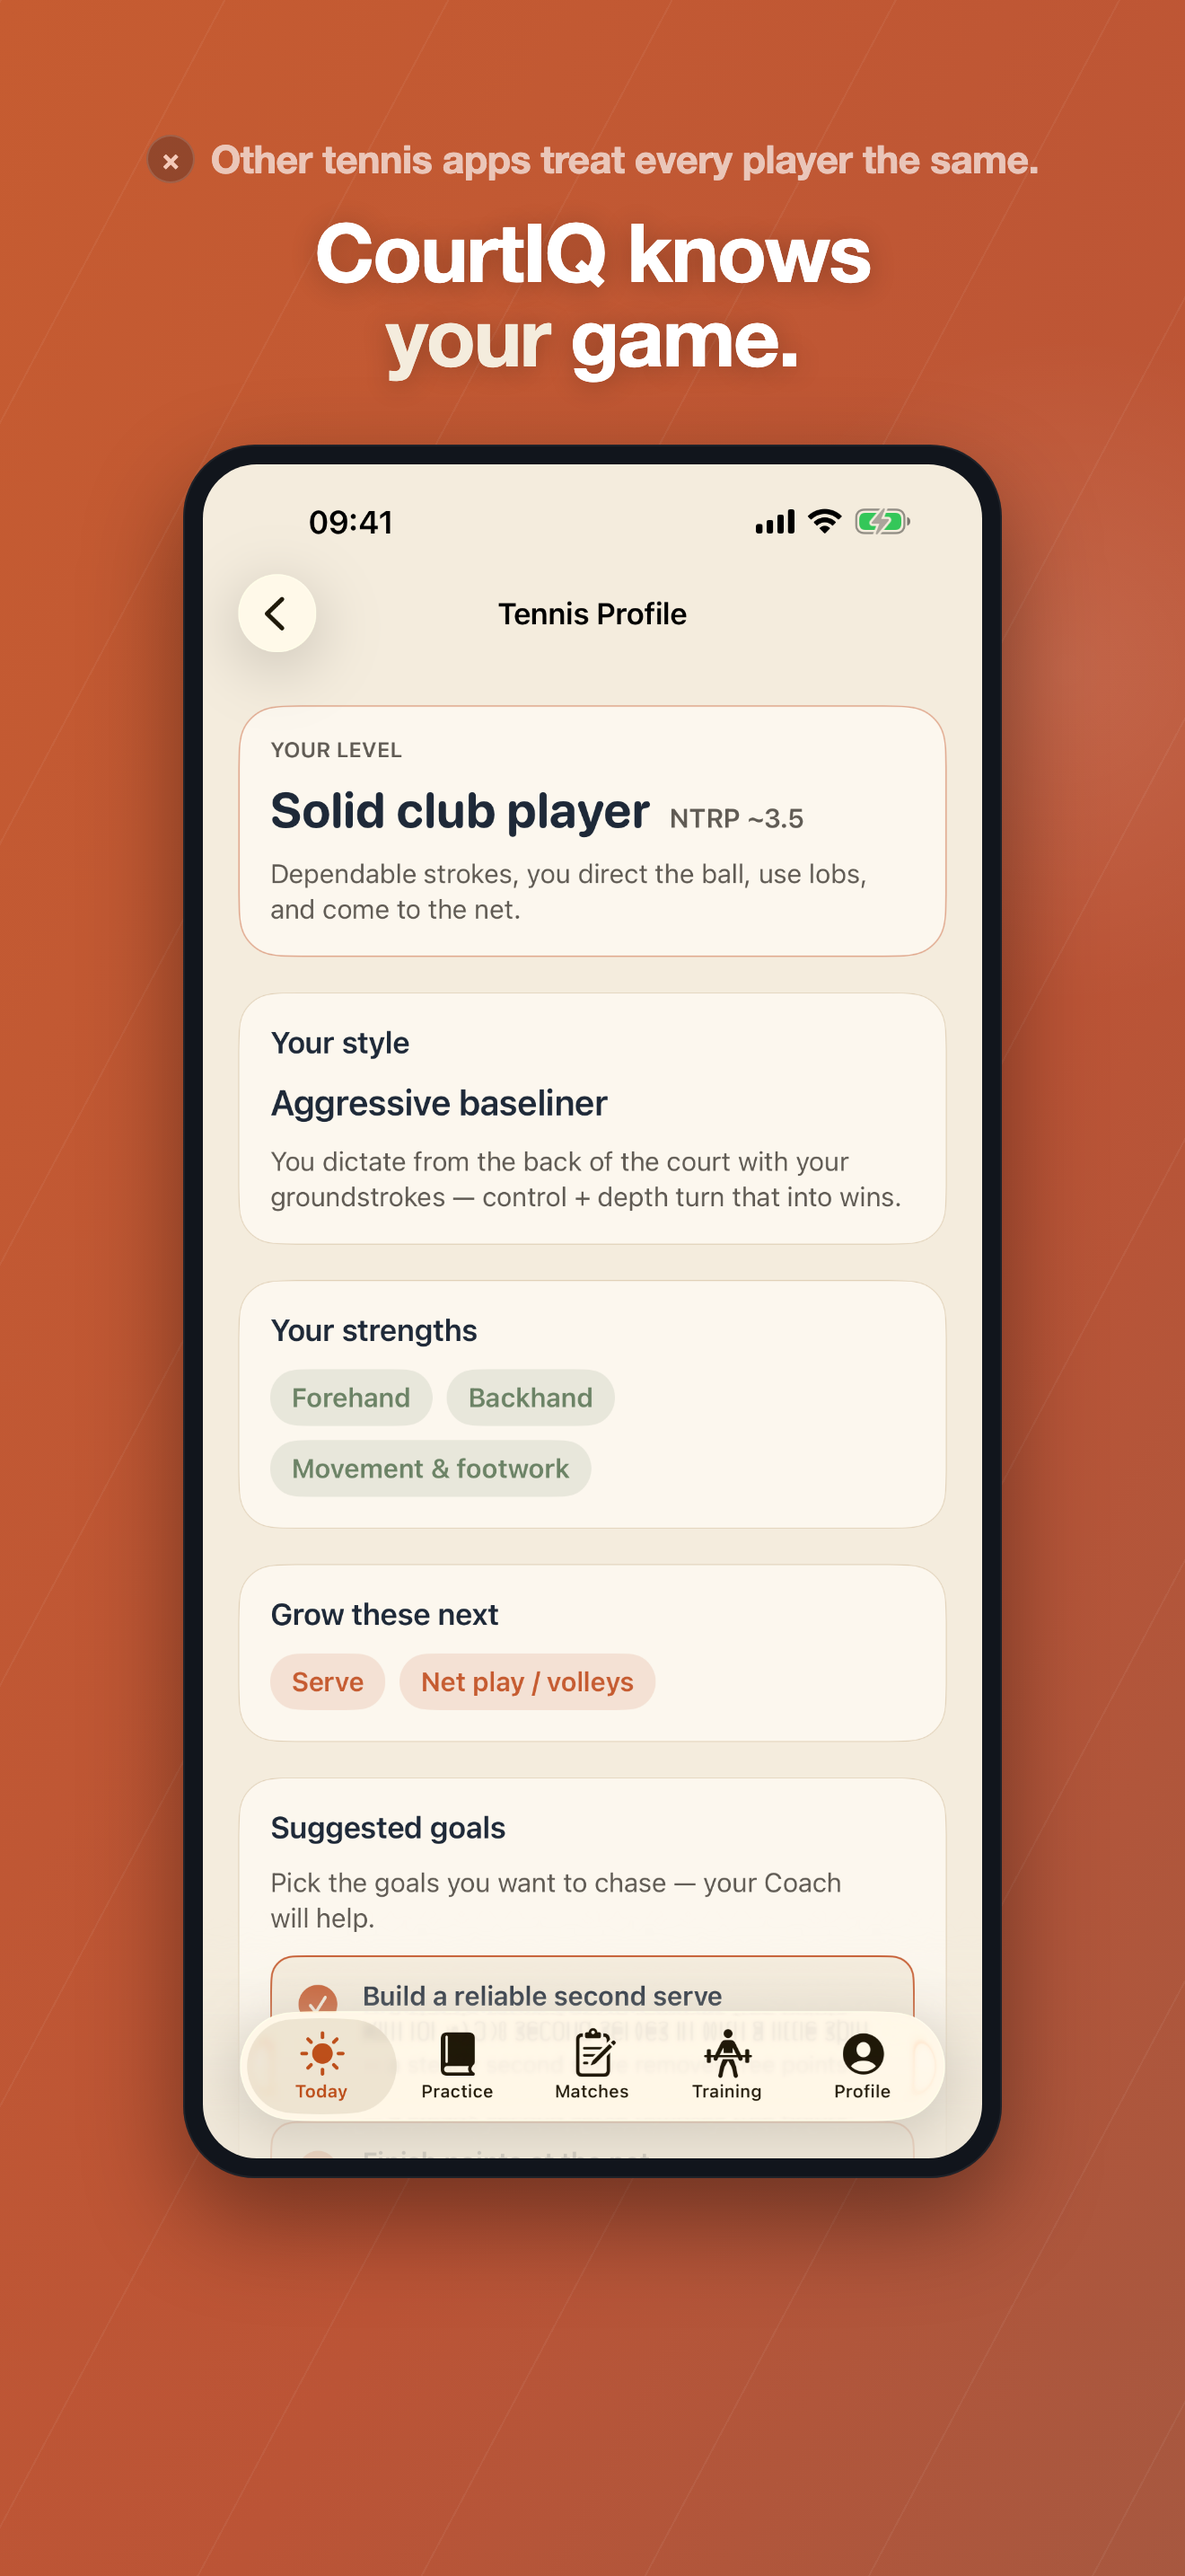
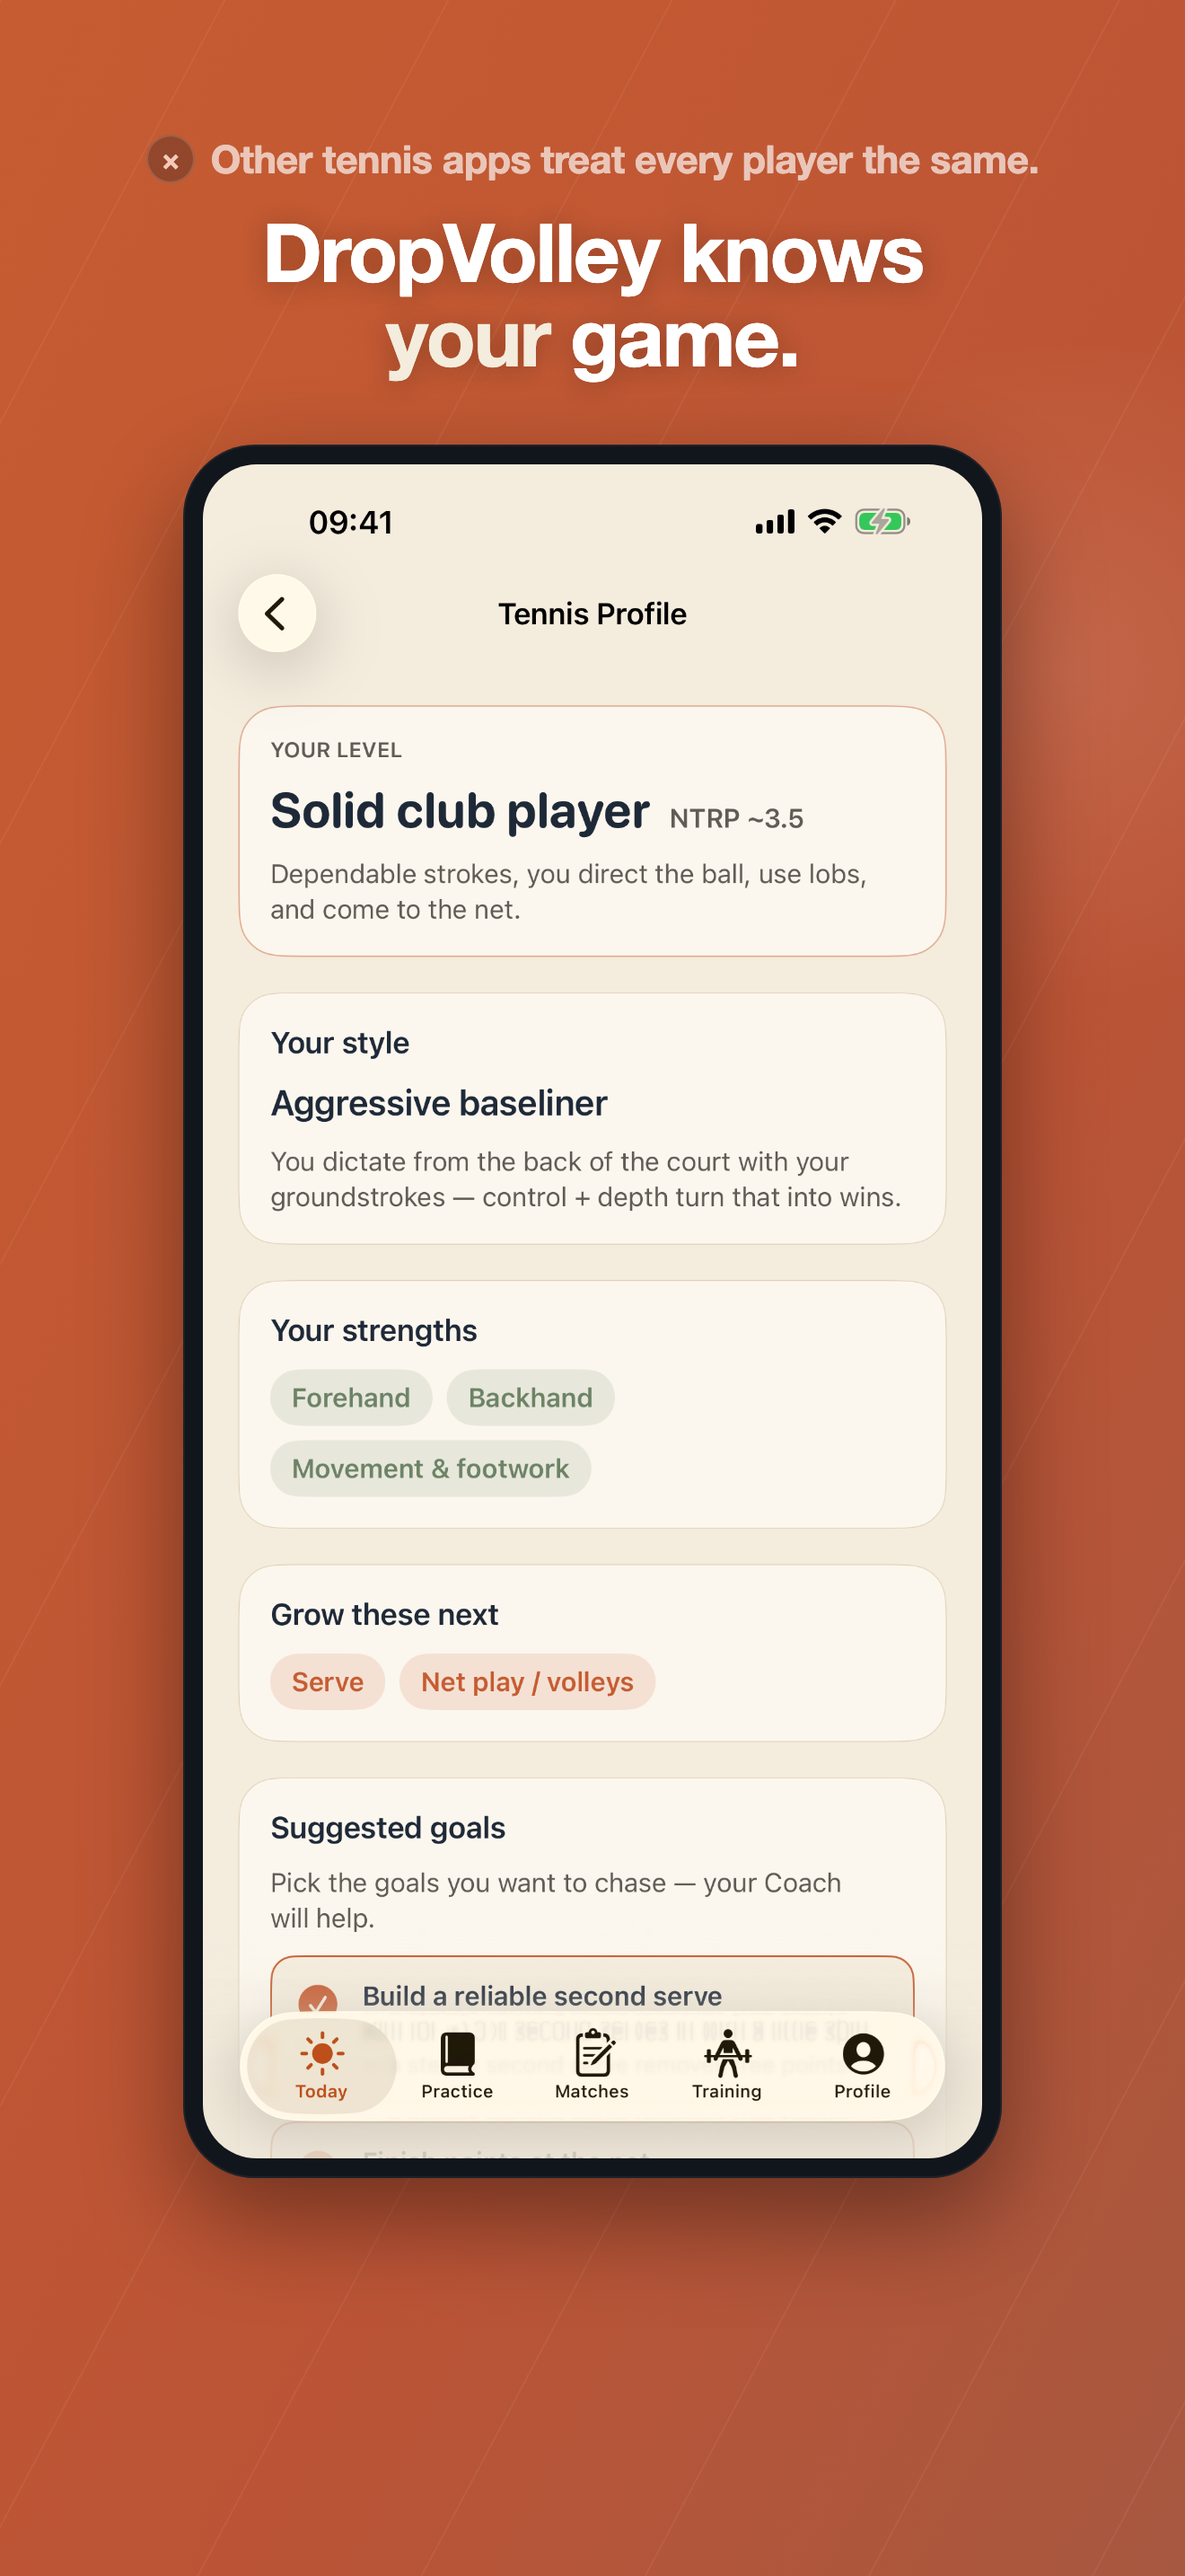
Screenshots: recapture DropVolley + new paywall; fix preview gating
- Preview seed now forces premium in refreshEntitlements (-seedPreviewData)
  so the seeded tour renders the full app past the hard paywall (the empty
  sandbox entitlements were downgrading it → paywall).
- Add -previewPaywall mode + seedPreviewPaywallOffers (real $9.99/$59.99
  prices) + a testPaywallCapture UI test, so the paywall renders for the
  App Store + subscription review screenshot. .storekit referenced in the
  CourtIQ scheme too.
- New App Store panorama: 5 DropVolley evidence-hook frames (Tennis Profile,
  drill, progress, matches, paywall) re-uploaded to ASC (en-US + tr). The
  paywall capture is also the subscription review screenshot.

Changed region(s): [[0.2174, 0.0621, 0.7765, 0.1241]]

diff --git a/marketing/panorama.html b/marketing/panorama.html
@@ -32,7 +32,6 @@
     display:flex; flex-direction:column; align-items:center;
     position:relative; z-index:1;
   }
-  /* The "other apps fail" eyebrow — the evidence hook. */
   .eyebrow {
     display:flex; align-items:center; gap:18px;
     margin:150px 90px 0;
@@ -48,7 +47,6 @@
     display:flex; align-items:center; justify-content:center;
     box-shadow:inset 0 0 0 2px rgba(255,255,255,.14);
   }
-  /* The CourtIQ payoff — big, bold, the answer. */
   .headline {
     color:#fff; font-weight:800; font-size:90px; line-height:1.04;
     letter-spacing:-2px; text-align:center;
@@ -72,14 +70,8 @@
 
     <div class="frame">
       <div class="eyebrow"><span class="x">&times;</span><span>Other tennis apps treat every player the same.</span></div>
-      <div class="headline">CourtIQ knows<br><span class="accent">your</span> game.</div>
-      <div class="device"><img src="file:///Users/can/Projects/CourtIQ/marketing/screens/01b-tennis-profile.png"></div>
-    </div>
-
-    <div class="frame">
-      <div class="eyebrow"><span class="x">&times;</span><span>Generic tips never fix what's actually wrong.</span></div>
-      <div class="headline">An AI coach that<br><span class="accent">remembers every match.</span></div>
-      <div class="device"><img src="file:///Users/can/Projects/CourtIQ/marketing/screens/10-aicoach.png"></div>
+      <div class="headline">DropVolley knows<br><span class="accent">your</span> game.</div>
+      <div class="device"><img src="file:///Users/can/Projects/CourtIQ/marketing/screens/01-tennis-profile.png"></div>
     </div>
 
     <div class="frame">
@@ -91,13 +83,19 @@
     <div class="frame">
       <div class="eyebrow"><span class="x">&times;</span><span>Stop guessing whether you're improving.</span></div>
       <div class="headline">Watch your game<br><span class="accent">actually climb.</span></div>
-      <div class="device"><img src="file:///Users/can/Projects/CourtIQ/marketing/screens/06b-progress.png"></div>
+      <div class="device"><img src="file:///Users/can/Projects/CourtIQ/marketing/screens/03-progress.png"></div>
     </div>
 
     <div class="frame">
-      <div class="eyebrow"><span class="x">&times;</span><span>Random workouts won't win you matches.</span></div>
-      <div class="headline">Training built<br><span class="accent">for tennis.</span></div>
-      <div class="device"><img src="file:///Users/can/Projects/CourtIQ/marketing/screens/07-training.png"></div>
+      <div class="eyebrow"><span class="x">&times;</span><span>Memory fades. Patterns hide.</span></div>
+      <div class="headline">Log every match —<br><span class="accent">see what wins.</span></div>
+      <div class="device"><img src="file:///Users/can/Projects/CourtIQ/marketing/screens/04-matches.png"></div>
+    </div>
+
+    <div class="frame">
+      <div class="eyebrow"><span class="x">&times;</span><span>Five apps for one game?</span></div>
+      <div class="headline">Everything, in<br><span class="accent">one membership.</span></div>
+      <div class="device"><img src="file:///Users/can/Projects/CourtIQ/marketing/screens/05-paywall.png"></div>
     </div>
 
   </div>

diff --git a/CourtIQ/Core/Models/UserSession.swift b/CourtIQ/Core/Models/UserSession.swift
@@ -340,6 +340,10 @@ final class SubscriptionManager: ObservableObject {
     func loadOfferings() async {
         do {
             let products = try await Product.products(for: [configuration.weeklyProductID, configuration.annualProductID])
+            if products.isEmpty && ProcessInfo.processInfo.arguments.contains("-previewPaywall") {
+                seedPreviewPaywallOffers()
+                return
+            }
             productsByID = Dictionary(uniqueKeysWithValues: products.map { ($0.id, $0) })
             integrationMode = productsByID.isEmpty ? .productConfigurationMissing : .storeKitDirect
 
@@ -371,8 +375,29 @@ final class SubscriptionManager: ObservableObject {
                                          perWeekText: "Just \(perWeek)/week", saveBadge: saveBadge, trialText: trialText)
             }
         } catch {
-            integrationMode = .productConfigurationMissing
+            if ProcessInfo.processInfo.arguments.contains("-previewPaywall") {
+                seedPreviewPaywallOffers()
+            } else {
+                integrationMode = .productConfigurationMissing
+            }
         }
+    }
+
+    /// Screenshot only (`-previewPaywall`): seed the paywall with the real
+    /// $9.99 / $59.99 prices so it renders fully without live StoreKit
+    /// products. Never reached in normal use.
+    private func seedPreviewPaywallOffers() {
+        offers = [
+            SubscriptionOffer(id: configuration.annualProductID, title: "Annual",
+                              detail: "3 days free, then billed yearly. Cancel anytime.",
+                              priceDisplay: "$59.99 / year", isFeatured: true,
+                              perWeekText: "Just $1.15/week", saveBadge: "Save 88%",
+                              trialText: "Free for 3 days, then $59.99/year"),
+            SubscriptionOffer(id: configuration.weeklyProductID, title: "Weekly",
+                              detail: "Billed weekly. Cancel anytime.",
+                              priceDisplay: "$9.99 / week", isFeatured: false)
+        ]
+        integrationMode = .storeKitDirect
     }
 
     private static func periodText(_ period: Product.SubscriptionPeriod) -> String {
@@ -389,6 +414,14 @@ final class SubscriptionManager: ObservableObject {
     }
 
     func refreshEntitlements() async {
+        // Preview seed (`-seedPreviewData`) forces premium so the seeded
+        // App Store preview can render the full app past the hard paywall —
+        // otherwise the empty sandbox entitlements would downgrade it.
+        if ProcessInfo.processInfo.arguments.contains("-seedPreviewData") {
+            entitlementState = .premiumAllAccess
+            saveEntitlement()
+            return
+        }
         var hasPremium = false
 
         for await result in Transaction.currentEntitlements {

diff --git a/CourtIQ/App/CourtIQApp.swift b/CourtIQ/App/CourtIQApp.swift
@@ -25,6 +25,19 @@ struct CourtIQApp: App {
             Task { @MainActor in Self.seedPreviewData() }
         }
 
+        // Paywall capture only: onboarded + health-acknowledged but NOT
+        // premium, so the hard-paywall gate renders the paywall (with the
+        // .storekit prices) for the App Store / subscription review screenshot.
+        if ProcessInfo.processInfo.arguments.contains("-previewPaywall") {
+            Task { @MainActor in
+                UserSessionManager.shared.debugMarkOnboarded()
+                HealthAcknowledgment.recordAcceptance()
+                // Clear any persisted premium (from a prior seeded run) so the
+                // hard-paywall gate actually renders the paywall.
+                UserSessionManager.shared.subscriptionManager.resetLocalEntitlements()
+            }
+        }
+
         // If the user previously authorized notifications, make sure the
         // daily reminder is re-scheduled (handles app upgrades / device
         // migrations where pending requests can be cleared).

diff --git a/CourtIQUITests/CourtIQAppPreviewUITest.swift b/CourtIQUITests/CourtIQAppPreviewUITest.swift
@@ -27,6 +27,16 @@ final class CourtIQAppPreviewUITest: XCTestCase {
         return false
     }
 
+    /// Captures the hard-paywall (with prices) for the App Store screenshot
+    /// set + the subscription review screenshot. Runs after the tour
+    /// (alphabetical), so it resets the seeded premium via -previewPaywall.
+    func testPaywallCapture() {
+        app.launchArguments = ["-previewPaywall"]
+        app.launch()
+        sleep(5)
+        snap("00-paywall")
+    }
+
     func testAppPreviewTour() {
         app.launchArguments = ["-seedPreviewData"]
         app.launch()
